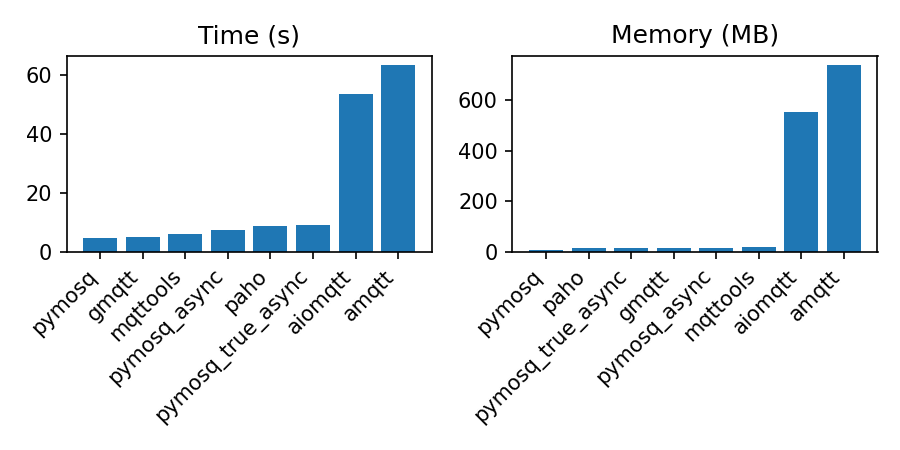
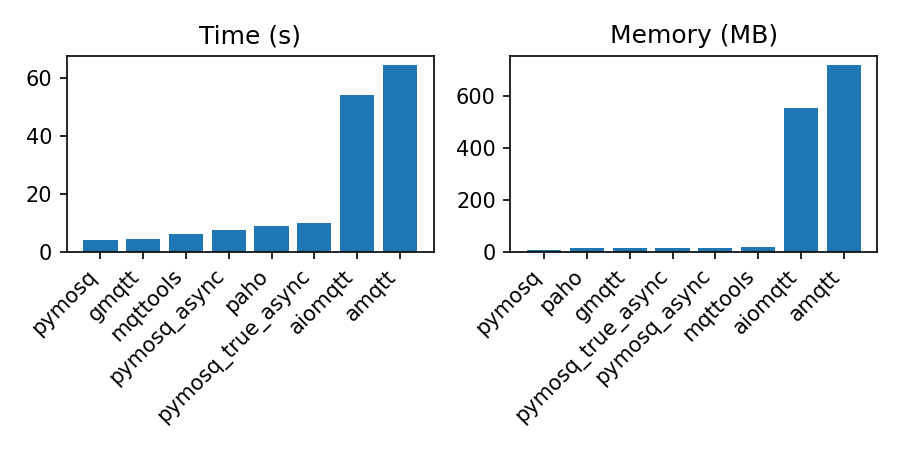
added message buffer limit to async client

diff --git a/pymosquitto/aio.py b/pymosquitto/aio.py
@@ -121,18 +121,17 @@ class BaseAsyncClient(abc.ABC):
 
 
 class AsyncClient(BaseAsyncClient):
-    def __init__(self, *args, **kwargs):
+    def __init__(self, *args, buffer_size=2000, flush_interval=0.05, **kwargs):
         super().__init__(*args, **kwargs)
-        self._msg_buffer = deque()
+        self._buffer_size = buffer_size
+        self._flush_interval = flush_interval
+        self._buffer = deque()
+        self._buffer_full = asyncio.Event()
         self._flush_task = None
 
     async def __aenter__(self):
         self._mosq.loop_start()
         return await super().__aenter__()
-
-    async def __aexit__(self, *args):
-        await super().__aexit__(*args)
-        self._mosq.loop_stop(True)
 
     def _on_connect(self, mosq, userdata, rc):
         self._loop.call_soon_threadsafe(super()._on_connect, mosq, userdata, rc)
@@ -159,19 +158,23 @@ class AsyncClient(BaseAsyncClient):
         self._loop.call_soon_threadsafe(super()._on_unsubscribe, mosq, userdata, mid)
 
     def _on_message(self, mosq, userdata, msg):
-        self._msg_buffer.append(msg)
+        self._buffer.append(msg)
+        if len(self._buffer) >= self._buffer_size:
+            self._loop.call_soon_threadsafe(self._buffer_full.set)
 
     async def _flush_messages(self):
         try:
             while True:
-                sleep_time = 0.01
-                while len(self._msg_buffer) == 0:
-                    await asyncio.sleep(sleep_time)
-                    if sleep_time < 0.05:
-                        sleep_time += 0.01
-                while self._msg_buffer:
-                    msg = self._msg_buffer.popleft()
+                while self._buffer:
+                    msg = self._buffer.popleft()
                     self._put_msg(msg)
+                # either wait for the buffer to fill up or timeout after flush_interval
+                task = self._loop.create_task(self._buffer_full.wait())
+                done, pending = await asyncio.wait({task}, timeout=self._flush_interval)
+                if done:
+                    self._buffer_full.clear()
+                else:
+                    task.cancel()
         except asyncio.CancelledError:
             pass
 

diff --git a/README.md b/README.md
@@ -5,7 +5,7 @@ A lightweight Python MQTT client implemented as a thin wrapper around libmosquit
 It provides an efficient synchronous client (`client.Client`) and two variants of asynchronous clients:
 
 - `aio.AsyncClient` - async interface to libmosquitto loop running in its own thread.
-It's a little bit faster, hopefully more reliable, but consumes a little bit more memory.
+It's a little bit faster, supposedly more reliable, but consumes a little bit more memory.
 - `aio.TrueAsyncClient` - manages all events in asyncio loop by utilizing `mosquitto_loop_read, mosquitto_loop_write, mosquitto_loop_misc` functions.
 
 
@@ -80,14 +80,14 @@ Losers excluded:
 
 ```text
 Module;Time;RSS
-pymosq;0:04.66;18484
-pymosq_async;0:07.26;25488
-pymosq_true_async;0:08.93;25080
-paho;0:08.67;23388
-gmqtt;0:04.94;25212
-mqttools;0:06.14;27900
-aiomqtt;0:53.49;577700
-amqtt;0:00.19;24004
+pymosq;0:04.20;18144
+pymosq_async;0:07.36;25604
+pymosq_true_async;0:10.01;24896
+paho;0:08.94;23472
+gmqtt;0:04.40;24768
+mqttools;0:06.20;27664
+aiomqtt;0:54.12;577624
+amqtt;1:04.37;745276
 ```
 
 
